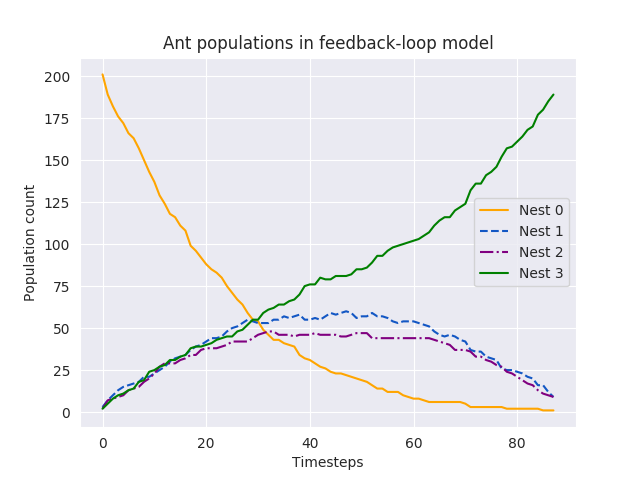
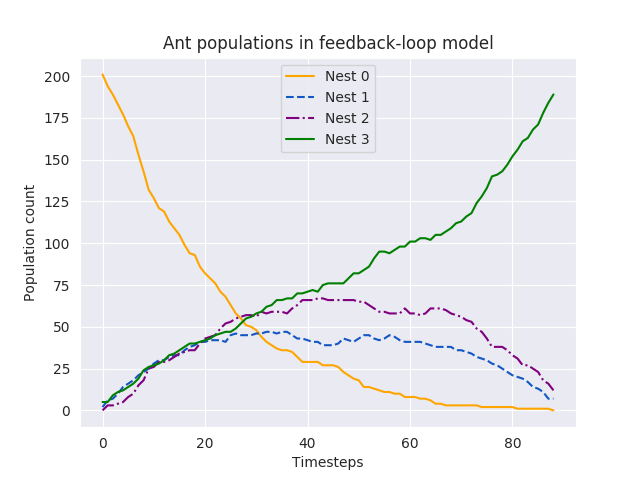
Updates agent based simulation

diff --git a/saldyt_2018_agent_based/agent.py b/saldyt_2018_agent_based/agent.py
@@ -11,21 +11,6 @@ import seaborn as sns
 import matplotlib.pyplot as plt
 sns.set_style('darkgrid')
 
-#plt.rcParams.update({
-#    "lines.color": "white",
-#    "patch.edgecolor": "white",
-#    "text.color": "black",
-#    "axes.facecolor": "white",
-#    "axes.edgecolor": "lightgray",
-#    "axes.labelcolor": "white",
-#    "xtick.color": "white",
-#    "ytick.color": "white",
-#    "grid.color": "lightgray",
-#    "figure.facecolor": "black",
-#    "figure.edgecolor": "black",
-#    "savefig.facecolor": "black",
-#    "savefig.edgecolor": "black"})
-
 class Agent:
     def __init__(self):
         self.commitment = 0.0
@@ -42,108 +27,3 @@ class Agent:
             self.commitment = weights[nest]
             self.current    = nest
 
-def transform(agents, agent, weights, phi, free):
-    if random() < agent.commitment:
-        options = list(reduce(set.union, (s for k, s in free.items() if k != agent.current), set()))
-        if options:
-            recruited = agents[choice(options)]
-            recruited.encounter(agent.current, weights)
-    else:
-        for j, p in enumerate(phi):
-            if random() < p:
-                agent.encounter(j, phi)
-    return agent
-
-def gen_free(agents):
-    free = defaultdict(set)
-    for i, agent in enumerate(agents):
-        free[agent.current].add(i)
-    return free
-
-def simulate(N, weights, phi, plot=False, iterations=500):
-    linestyles = ['-', '--', '-.'] * 100
-    colors     = ['orange', '#1357c4', 'purple', 'green']
-    M = len(weights)
-    agents  = [Agent() for i in range(N)]
-    free = gen_free(agents)
-
-    history = defaultdict(list)
-
-    done = False
-    for i in range(iterations):
-        if done:
-            iterations = i
-            break
-        agents = list(transform(agents, agent, weights, phi, free) for agent in agents)
-        free = gen_free(agents)
-        for k in range(M):
-            if k != 0 and len(free[k]) > .9 * N:
-                done = True
-            if k in free:
-                history[k].append(len(free[k]))
-            else:
-                history[k].append(0)
-
-    if plot:
-        time = list(range(iterations))
-        for i, H in history.items():
-            linestyle = linestyles[i]
-            color = colors[i]
-            plt.plot(time, H, color=color, label='Nest ' + str(i), linestyle=linestyle)
-        plt.ylabel('Population count')
-        plt.xlabel('Timesteps')
-        plt.legend()
-        plt.title('Ant populations in feedback-loop model')
-        plt.savefig('agent_based_population_model.png')
-        plt.show()
-    return iterations
-
-data = defaultdict(list)
-
-Ns = [208]
-#alphas = np.linspace(0.0, 0.1, 50)
-#alphas = np.linspace(0.0, 1.0, 50)
-#alphas = np.linspace(0.0, 1.0, 10)
-alphas = [0.015]
-#betas  = alphas
-betas  = [0.02]
-phis   = [0.013]
-phis   = np.linspace(0.0, 0.1, 31)
-
-simulate(208, [0.0, 0.015, 0.02, 0.03], [0.0, 0.013, 0.013, 0.013], True, iterations=5000)
-1/0
-#simulate(1000, [0.0, 0.015, 0.015, 0.015], [0.0, 0.013, 0.013, 0.013], True, iterations=1000)
-#simulate(1000, [0.0, 0.3, 0.25, 0.9], [0.0, 0.1, 0.1, 0.05], True, iterations=1000)
-
-for N in Ns:
-    for alpha in alphas:
-        for beta in betas:
-            for phi_a in phis:
-                for phi_b in phis:
-                    add = lambda k, v : data[k].append(round(v, 4))
-                    data['N'].append(N)
-                    add('alpha', alpha)
-                    add('beta', beta)
-                    add('phi_a', phi_a)
-                    add('phi_b', phi_b)
-                    weights = [0.0, alpha, beta]
-                    phi     = [0.0, phi_a, phi_b]
-                    data['iterations'].append(simulate(N, weights, phi, iterations=1000))
-
-#print(data)
-original_data = pandas.DataFrame(data)
-print(original_data)
-#data = original_data.pivot_table(values='iterations', index='beta', columns=['alpha'])
-#sns.heatmap(data, yticklabels=True, xticklabels=True)
-#plt.title('Convergence times for nest quality and threshold')
-#plt.xlabel('Alpha')
-#plt.ylabel('Beta')
-#plt.savefig('agent_convergence_times.png')
-#plt.show()
-data = original_data.pivot_table(values='iterations', index='phi_b', columns=['phi_a'])
-sns.heatmap(data)#, yticklabels=True)
-plt.title('Convergence times for nest quality and threshold')
-plt.xlabel('Phi_a')
-plt.ylabel('Phi_b')
-plt.savefig('distance_agent_convergence_times.png')
-plt.show()

diff --git a/saldyt_2018_agent_based/simulate.py b/saldyt_2018_agent_based/simulate.py
@@ -1,0 +1,86 @@
+#!/usr/bin/env python3
+from random      import random, choice
+from collections import defaultdict
+from copy        import deepcopy
+from pprint      import pprint
+from functools   import reduce
+from time        import sleep
+
+import sys
+import pandas
+import numpy as np
+import seaborn as sns
+import matplotlib.pyplot as plt
+sns.set_style('darkgrid')
+
+from agent import Agent
+
+def transform(agents, agent, weights, phi, free):
+    if random() < agent.commitment:
+        options = list(reduce(set.union, (s for k, s in free.items() if k != agent.current), set()))
+        if options:
+            recruited = agents[choice(options)]
+            recruited.encounter(agent.current, weights)
+    else:
+        for j, p in enumerate(phi):
+            if random() < p:
+                agent.encounter(j, phi)
+    return agent
+
+def gen_free(agents):
+    free = defaultdict(set)
+    for i, agent in enumerate(agents):
+        free[agent.current].add(i)
+    return free
+
+def simulate(N, weights, phi, plot=False, iterations=500, plot_title='agent_based_populations.png', show=False):
+    linestyles = ['-', '--', '-.'] * 100
+    colors     = ['orange', '#1357c4', 'purple', 'green']
+    M = len(weights)
+    agents  = [Agent() for i in range(N)]
+    free = gen_free(agents)
+
+    history = defaultdict(list)
+
+    done = False
+    for i in range(iterations):
+        if done:
+            iterations = i
+            break
+        agents = list(transform(agents, agent, weights, phi, free) for agent in agents)
+        free = gen_free(agents)
+        for k in range(M):
+            if k != 0 and len(free[k]) > .9 * N:
+                done = True
+            if k in free:
+                history[k].append(len(free[k]))
+            else:
+                history[k].append(0)
+
+    if plot:
+        time = list(range(iterations))
+        for i, H in history.items():
+            linestyle = linestyles[i]
+            color = colors[i]
+            plt.plot(time, H, color=color, label='Nest ' + str(i), linestyle=linestyle)
+        plt.ylabel('Population count')
+        plt.xlabel('Timesteps')
+        plt.legend()
+        plt.title('Ant populations in feedback-loop model')
+        plt.savefig(plot_title)
+        if show:
+            plt.show()
+        else:
+            plt.clf()
+    return iterations
+
+def main(args):
+    simulate(208, [0.0, 0.015, 0.015], [0.0, 0.013, 0.013], True, iterations=1000, plot_title='similar.png')
+    simulate(208, [0.0, 0.015, 0.02], [0.0, 0.013, 0.013], True, iterations=5000, plot_title='original.png')
+    simulate(208, [0.0, 0.015, 0.02, 0.03], [0.0, 0.013, 0.013, 0.013], True, iterations=5000, plot_title='tri.png')
+    simulate(1000, [0.0, 0.015, 0.02], [0.0, 0.013, 0.013], True, iterations=5000, plot_title='original_1k.png')
+    simulate(1000, [0.0, 0.015, 0.02, 0.03], [0.0, 0.013, 0.013, 0.013], True, iterations=5000, plot_title='tri_1k.png')
+    return 0
+
+if __name__ == '__main__':
+    sys.exit(main(sys.argv[1:]))
